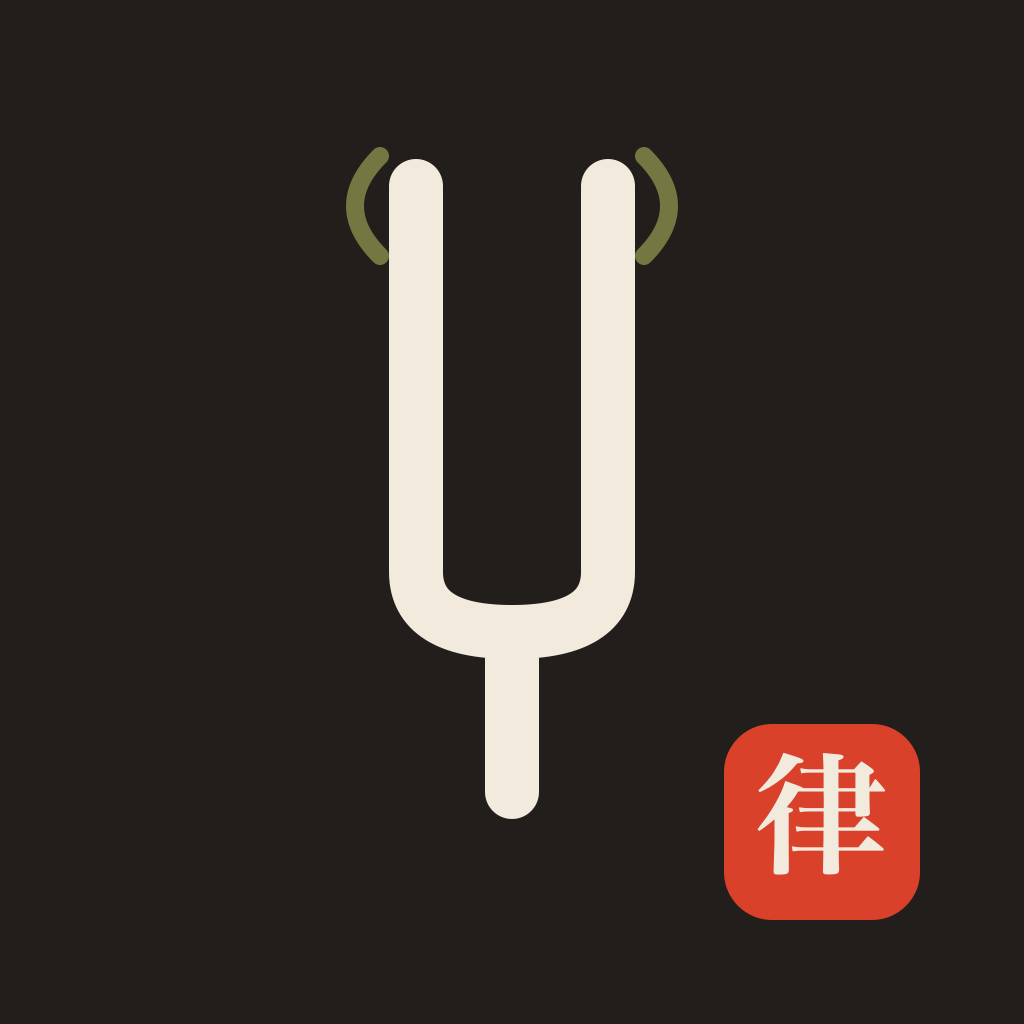
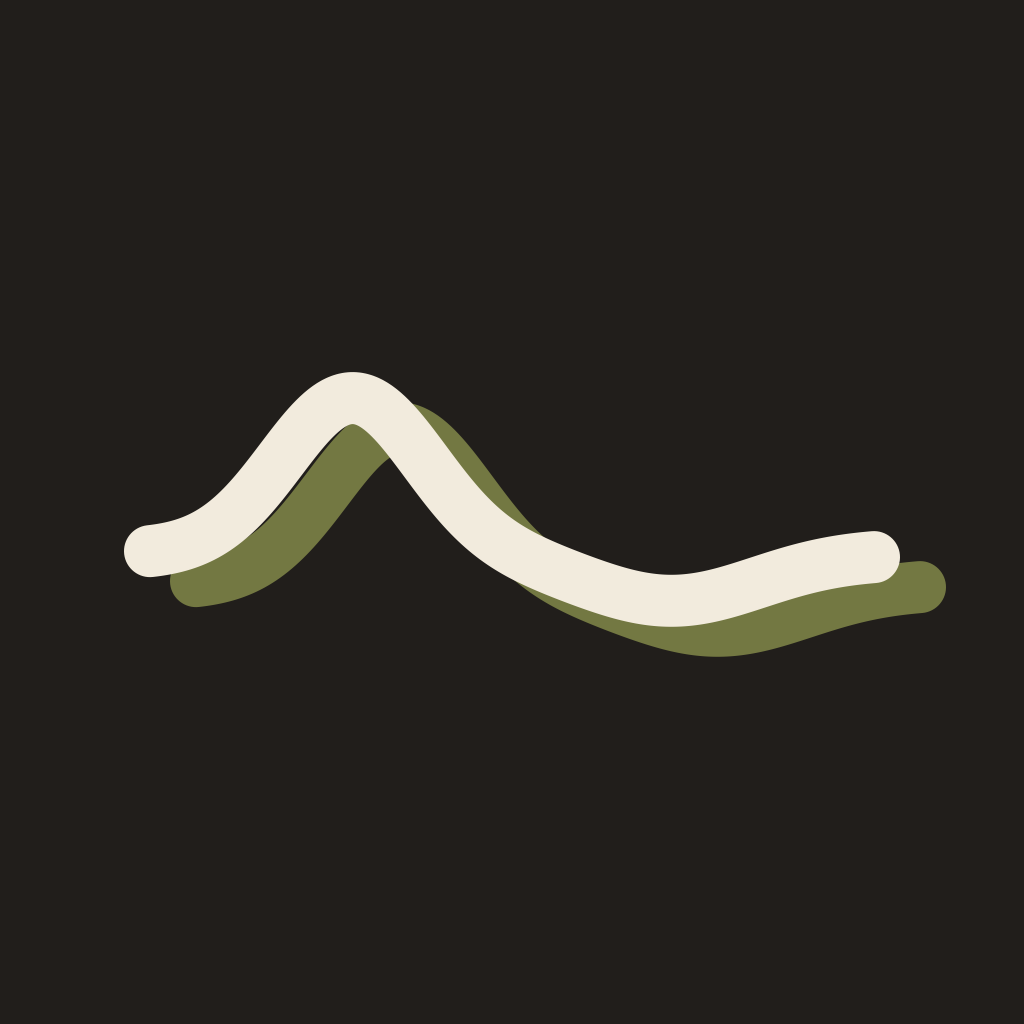
feat: two-wave brand mark (EQ curve + sample-rate afterimage)
Replace the tuning-fork icon with two offset sine waves on sumi ink: a
cream wave tracing a parametric-EQ response curve (one boost, one soft
cut) shadowed by a 利休-green afterimage — the output following the
source as the sample rate shifts. One mark for both halves of the app,
no kanji.

- render_icon.swift: Gaussian boost/cut curve, cream front + rikyu ghost.
- AppIcon.icon: two wave layers (wave-front / wave-back) so Liquid Glass
  parallaxes them into depth; icon.json updated, old glyph/seal removed.
- GlassPanelView: new WaveMark/WaveResponseShape replaces the 律 tile in
  the header so the in-app logo matches the icon. Builds clean.
- README: icon section + alt text rewritten for the wave mark.

Changed region(s): [[0.125, 0.125, 0.9375, 0.8125], [0.6875, 0.6875, 0.9062, 0.9062]]

diff --git a/branding/render_icon.swift b/branding/render_icon.swift
@@ -1,18 +1,50 @@
 import AppKit
-import CoreText
+import Foundation
 import ImageIO
 
-// Renders the Choritsu app icon (sumi background, cream tuning fork — 音叉,
-// the universal mark of tuning — with a vermilion 律 seal) plus the
-// separated layers for Icon Composer.
-// Run: swift branding/render_icon.swift
+// Renders the Choritsu app icon: two offset sine waves on sumi ink that read
+// as both a parametric-EQ response curve (boost bell + soft cut) and a
+// front-back afterimage — the cream wave is the audio/EQ, the 利休-green ghost
+// trailing behind is the output following the source sample rate.
+// The two waves are kept as separate Icon Composer layers so Liquid Glass
+// parallaxes them into real depth. Run: swift branding/render_icon.swift
 
 let canvas: CGFloat = 1024
 
 let sumi = CGColor(srgbRed: 33 / 255, green: 30 / 255, blue: 27 / 255, alpha: 1)
 let cream = CGColor(srgbRed: 242 / 255, green: 235 / 255, blue: 221 / 255, alpha: 1)
-let vermilion = CGColor(srgbRed: 217 / 255, green: 65 / 255, blue: 43 / 255, alpha: 1)
 let rikyu = CGColor(srgbRed: 115 / 255, green: 120 / 255, blue: 66 / 255, alpha: 1)
+
+// Curve geometry. CoreGraphics origin is bottom-left, so a positive response
+// (a boost) lifts the point toward the top of the canvas.
+let x0: CGFloat = 150
+let x1: CGFloat = 874
+let midY: CGFloat = 470
+let amp: CGFloat = 156
+let strokeW: CGFloat = 52
+let samples = 220
+
+// A classic PEQ response: one boost bell, one gentle cut, flat at the edges.
+func waveResponse(_ t: Double) -> Double {
+    let boost = exp(-pow((t - 0.28) / 0.14, 2))
+    let cut = 0.30 * exp(-pow((t - 0.72) / 0.17, 2))
+    return boost - cut
+}
+
+func wavePath(dx: CGFloat, dy: CGFloat) -> CGPath {
+    let path = CGMutablePath()
+    for i in 0...samples {
+        let t = Double(i) / Double(samples)
+        let x = x0 + (x1 - x0) * CGFloat(t) + dx
+        let y = midY + amp * CGFloat(waveResponse(t)) + dy
+        if i == 0 {
+            path.move(to: CGPoint(x: x, y: y))
+        } else {
+            path.addLine(to: CGPoint(x: x, y: y))
+        }
+    }
+    return path
+}
 
 func makeContext() -> CGContext {
     let colorSpace = CGColorSpace(name: CGColorSpace.sRGB)!
@@ -34,104 +66,32 @@ func save(_ ctx: CGContext, to path: String) {
     print("wrote \(path)")
 }
 
-// The hero: a tuning fork (音叉). CoreGraphics origin is bottom-left, so
-// higher y is nearer the top — the prong tips sit high, the handle hangs low.
-func drawFork(in ctx: CGContext) {
-    let centerX: CGFloat = 512
-    let halfGap: CGFloat = 96       // prong centres at centerX ± halfGap
-    let strokeW: CGFloat = 54
-
-    let tipY: CGFloat = 838         // top of the prongs
-    let bendStartY: CGFloat = 452   // where the straight prongs meet the U
-    let bendBottomY: CGFloat = 392  // lowest point of the U / top of the stem
-    let stemBottomY: CGFloat = 232  // bottom of the handle
-
-    let leftX = centerX - halfGap
-    let rightX = centerX + halfGap
-
-    // Two subtle 利休-green resonance arcs, just outside the prong tips.
-    let arcs = CGMutablePath()
-    arcs.move(to: CGPoint(x: leftX - 36, y: tipY + 30))
-    arcs.addQuadCurve(to: CGPoint(x: leftX - 36, y: tipY - 70),
-                      control: CGPoint(x: leftX - 86, y: tipY - 20))
-    arcs.move(to: CGPoint(x: rightX + 36, y: tipY + 30))
-    arcs.addQuadCurve(to: CGPoint(x: rightX + 36, y: tipY - 70),
-                      control: CGPoint(x: rightX + 86, y: tipY - 20))
-    ctx.setStrokeColor(rikyu)
-    ctx.setLineWidth(18)
-    ctx.setLineCap(.round)
-    ctx.addPath(arcs)
-    ctx.strokePath()
-
-    // The fork itself: U-joined prongs plus a hanging stem.
-    let fork = CGMutablePath()
-    fork.move(to: CGPoint(x: leftX, y: tipY))
-    fork.addLine(to: CGPoint(x: leftX, y: bendStartY))
-    fork.addQuadCurve(to: CGPoint(x: centerX, y: bendBottomY),
-                      control: CGPoint(x: leftX, y: bendBottomY))
-    fork.addQuadCurve(to: CGPoint(x: rightX, y: bendStartY),
-                      control: CGPoint(x: rightX, y: bendBottomY))
-    fork.addLine(to: CGPoint(x: rightX, y: tipY))
-
-    fork.move(to: CGPoint(x: centerX, y: bendBottomY))
-    fork.addLine(to: CGPoint(x: centerX, y: stemBottomY))
-
-    ctx.setStrokeColor(cream)
+func drawWave(in ctx: CGContext, color: CGColor, dx: CGFloat, dy: CGFloat) {
+    ctx.setStrokeColor(color)
     ctx.setLineWidth(strokeW)
     ctx.setLineCap(.round)
     ctx.setLineJoin(.round)
-    ctx.addPath(fork)
+    ctx.addPath(wavePath(dx: dx, dy: dy))
     ctx.strokePath()
 }
 
-// Centre the kanji 律 inside an arbitrary rect, in mincho type.
-func drawKanji(_ string: String, in ctx: CGContext, rect: CGRect, fontSize: CGFloat, color: CGColor) {
-    let font = NSFont(name: "HiraMinProN-W6", size: fontSize)
-        ?? NSFont(name: "HiraMinProN-W3", size: fontSize)
-        ?? NSFont.systemFont(ofSize: fontSize, weight: .semibold)
-
-    let attrs: [NSAttributedString.Key: Any] = [
-        .font: font,
-        NSAttributedString.Key(kCTForegroundColorFromContextAttributeName as String): true,
-    ]
-    let line = CTLineCreateWithAttributedString(NSAttributedString(string: string, attributes: attrs))
-    let bounds = CTLineGetBoundsWithOptions(line, .useGlyphPathBounds)
-
-    ctx.setFillColor(color)
-    let x = rect.midX - bounds.width / 2 - bounds.minX
-    let y = rect.midY - bounds.height / 2 - bounds.minY
-    ctx.textPosition = CGPoint(x: x, y: y)
-    CTLineDraw(line, ctx)
-}
-
-// The vermilion seal, bottom-right, now stamped with 律 — the brand's signature.
-func drawSeal(in ctx: CGContext) {
-    let sealSize: CGFloat = 196
-    let margin: CGFloat = 104
-    let rect = CGRect(x: canvas - margin - sealSize, y: margin, width: sealSize, height: sealSize)
-
-    ctx.setFillColor(vermilion)
-    ctx.addPath(CGPath(roundedRect: rect, cornerWidth: 48, cornerHeight: 48, transform: nil))
-    ctx.fillPath()
-
-    // Optically a touch above centre, the way a seal is cut.
-    let glyphRect = rect.offsetBy(dx: 0, dy: 8)
-    drawKanji("律", in: ctx, rect: glyphRect, fontSize: 132, color: cream)
-}
+// The ghost trails to the lower-right of the front wave.
+let ghostDX: CGFloat = 46
+let ghostDY: CGFloat = -30
 
 let dir = "branding"
 
 let composite = makeContext()
 composite.setFillColor(sumi)
 composite.fill(CGRect(x: 0, y: 0, width: canvas, height: canvas))
-drawFork(in: composite)
-drawSeal(in: composite)
+drawWave(in: composite, color: rikyu, dx: ghostDX, dy: ghostDY)
+drawWave(in: composite, color: cream, dx: 0, dy: 0)
 save(composite, to: "\(dir)/icon_1024.png")
 
-let glyphLayer = makeContext()
-drawFork(in: glyphLayer)
-save(glyphLayer, to: "\(dir)/layer_glyph.png")
+let frontLayer = makeContext()
+drawWave(in: frontLayer, color: cream, dx: 0, dy: 0)
+save(frontLayer, to: "\(dir)/layer_front.png")
 
-let sealLayer = makeContext()
-drawSeal(in: sealLayer)
-save(sealLayer, to: "\(dir)/layer_seal.png")
+let backLayer = makeContext()
+drawWave(in: backLayer, color: rikyu, dx: ghostDX, dy: ghostDY)
+save(backLayer, to: "\(dir)/layer_back.png")

diff --git a/Views/GlassPanelView.swift b/Views/GlassPanelView.swift
@@ -17,6 +17,64 @@ private enum Washi {
     static let sumiBottom = Color(red: 0.078, green: 0.075, blue: 0.071)
 }
 
+// MARK: - Wave mark (app logo)
+
+/// The brand mark: a parametric-EQ response curve (one boost bell, one soft
+/// cut) that doubles as a sine wave. Drawn twice with an offset to leave a
+/// 利休-green afterimage — the output trailing the source sample rate. Same
+/// geometry as `branding/render_icon.swift`, so the logo matches the app icon.
+private struct WaveResponseShape: Shape {
+    func path(in rect: CGRect) -> Path {
+        let x0 = rect.width * 0.15
+        let x1 = rect.width * 0.85
+        let span = x1 - x0
+        let midY = rect.height * 0.54
+        let amp = rect.height * 0.30
+        let steps = 56
+
+        var path = Path()
+        for i in 0...steps {
+            let t = Double(i) / Double(steps)
+            let boost = exp(-pow((t - 0.28) / 0.14, 2))
+            let cut = 0.30 * exp(-pow((t - 0.72) / 0.17, 2))
+            let f = boost - cut
+            let x = x0 + span * CGFloat(t)
+            let y = midY - amp * CGFloat(f)   // SwiftUI y is flipped: a boost lifts up
+            let point = CGPoint(x: x, y: y)
+            if i == 0 { path.move(to: point) } else { path.addLine(to: point) }
+        }
+        return path
+    }
+}
+
+private struct WaveMark: View {
+    var size: CGFloat = 22
+
+    var body: some View {
+        let line = size * 0.12
+        let corner = size * 0.28
+        ZStack {
+            RoundedRectangle(cornerRadius: corner, style: .continuous)
+                .fill(
+                    LinearGradient(colors: [Washi.sumiTop, Washi.sumiBottom],
+                                   startPoint: .top, endPoint: .bottom)
+                )
+            WaveResponseShape()
+                .stroke(Washi.rikyu, style: StrokeStyle(lineWidth: line, lineCap: .round, lineJoin: .round))
+                .offset(x: size * 0.05, y: size * 0.04)
+            WaveResponseShape()
+                .stroke(Washi.paperTop, style: StrokeStyle(lineWidth: line, lineCap: .round, lineJoin: .round))
+        }
+        .frame(width: size, height: size)
+        .clipShape(RoundedRectangle(cornerRadius: corner, style: .continuous))
+        .overlay(
+            RoundedRectangle(cornerRadius: corner, style: .continuous)
+                .strokeBorder(.white.opacity(0.10), lineWidth: 0.5)
+        )
+        .accessibilityLabel("Choritsu")
+    }
+}
+
 // MARK: - Panel
 
 struct GlassPanelView: View {
@@ -90,14 +148,7 @@ struct GlassPanelView: View {
 
     private var header: some View {
         HStack(spacing: 10) {
-            RoundedRectangle(cornerRadius: 5, style: .continuous)
-                .fill(Washi.rikyu)
-                .frame(width: 20, height: 20)
-                .overlay(
-                    Text("律")
-                        .font(.system(size: 11, weight: .bold))
-                        .foregroundStyle(.white)
-                )
+            WaveMark(size: 22)
 
             VStack(alignment: .leading, spacing: 1) {
                 Text("CHŌRITSU")

diff --git a/README.md b/README.md
@@ -1,5 +1,5 @@
 <p align="center">
-  <img src="branding/icon_1024.png" width="128" alt="Choritsu icon — a cream tuning fork on a sumi-ink background with a vermilion 律 seal">
+  <img src="branding/icon_1024.png" width="128" alt="Choritsu icon — two offset sine waves on sumi ink: a cream parametric-EQ curve shadowed by a 利休-green afterimage">
 </p>
 
 <h1 align="center">Choritsu · 調律</h1>
@@ -99,9 +99,11 @@ No network access, no analytics, nothing leaves your machine.
 
 ## The name and the icon
 
-The icon is a **tuning fork** (音叉) drawn in cream on sumi ink — the universal mark of pitch and tuning — stamped with a vermilion seal bearing the single kanji **律** (pitch, law, rhythm), the way a calligrapher signs a finished work. In classical East Asian music theory the twelve-tone system is literally called 十二律, "the twelve ritsu". 調律 — "tuning" — is what a piano technician does, and what this app does to your output chain: it tunes the whole listening path to the source.
+**調律** (*chōritsu*) is the Japanese word for tuning an instrument — what a piano technician does, and what this app does to your listening chain. In classical East Asian music theory the twelve-tone system is literally called 十二律, "the twelve ritsu".
 
-The icon ships as a hand-authored Icon Composer `.icon` bundle (`AppIcon.icon`), so the system renders it with real Liquid Glass layering. `branding/render_icon.swift` regenerates all bitmaps from code.
+The icon drops the literal kanji for something you can read at a glance: **two offset sine waves** on sumi ink. The cream wave traces a parametric-EQ response curve — one boost, one gentle cut — and the **利休**-green wave behind it is its *afterimage*: the output trailing the source as the sample rate shifts. One mark for both halves of the app, the EQ and the rate-sync, and the same mark sits in the app's top-left corner.
+
+The icon ships as a hand-authored Icon Composer `.icon` bundle (`AppIcon.icon`) with the two waves on separate layers, so the system parallaxes them into real Liquid Glass depth. `branding/render_icon.swift` regenerates the bitmaps from code.
 
 ## Acknowledgements
 